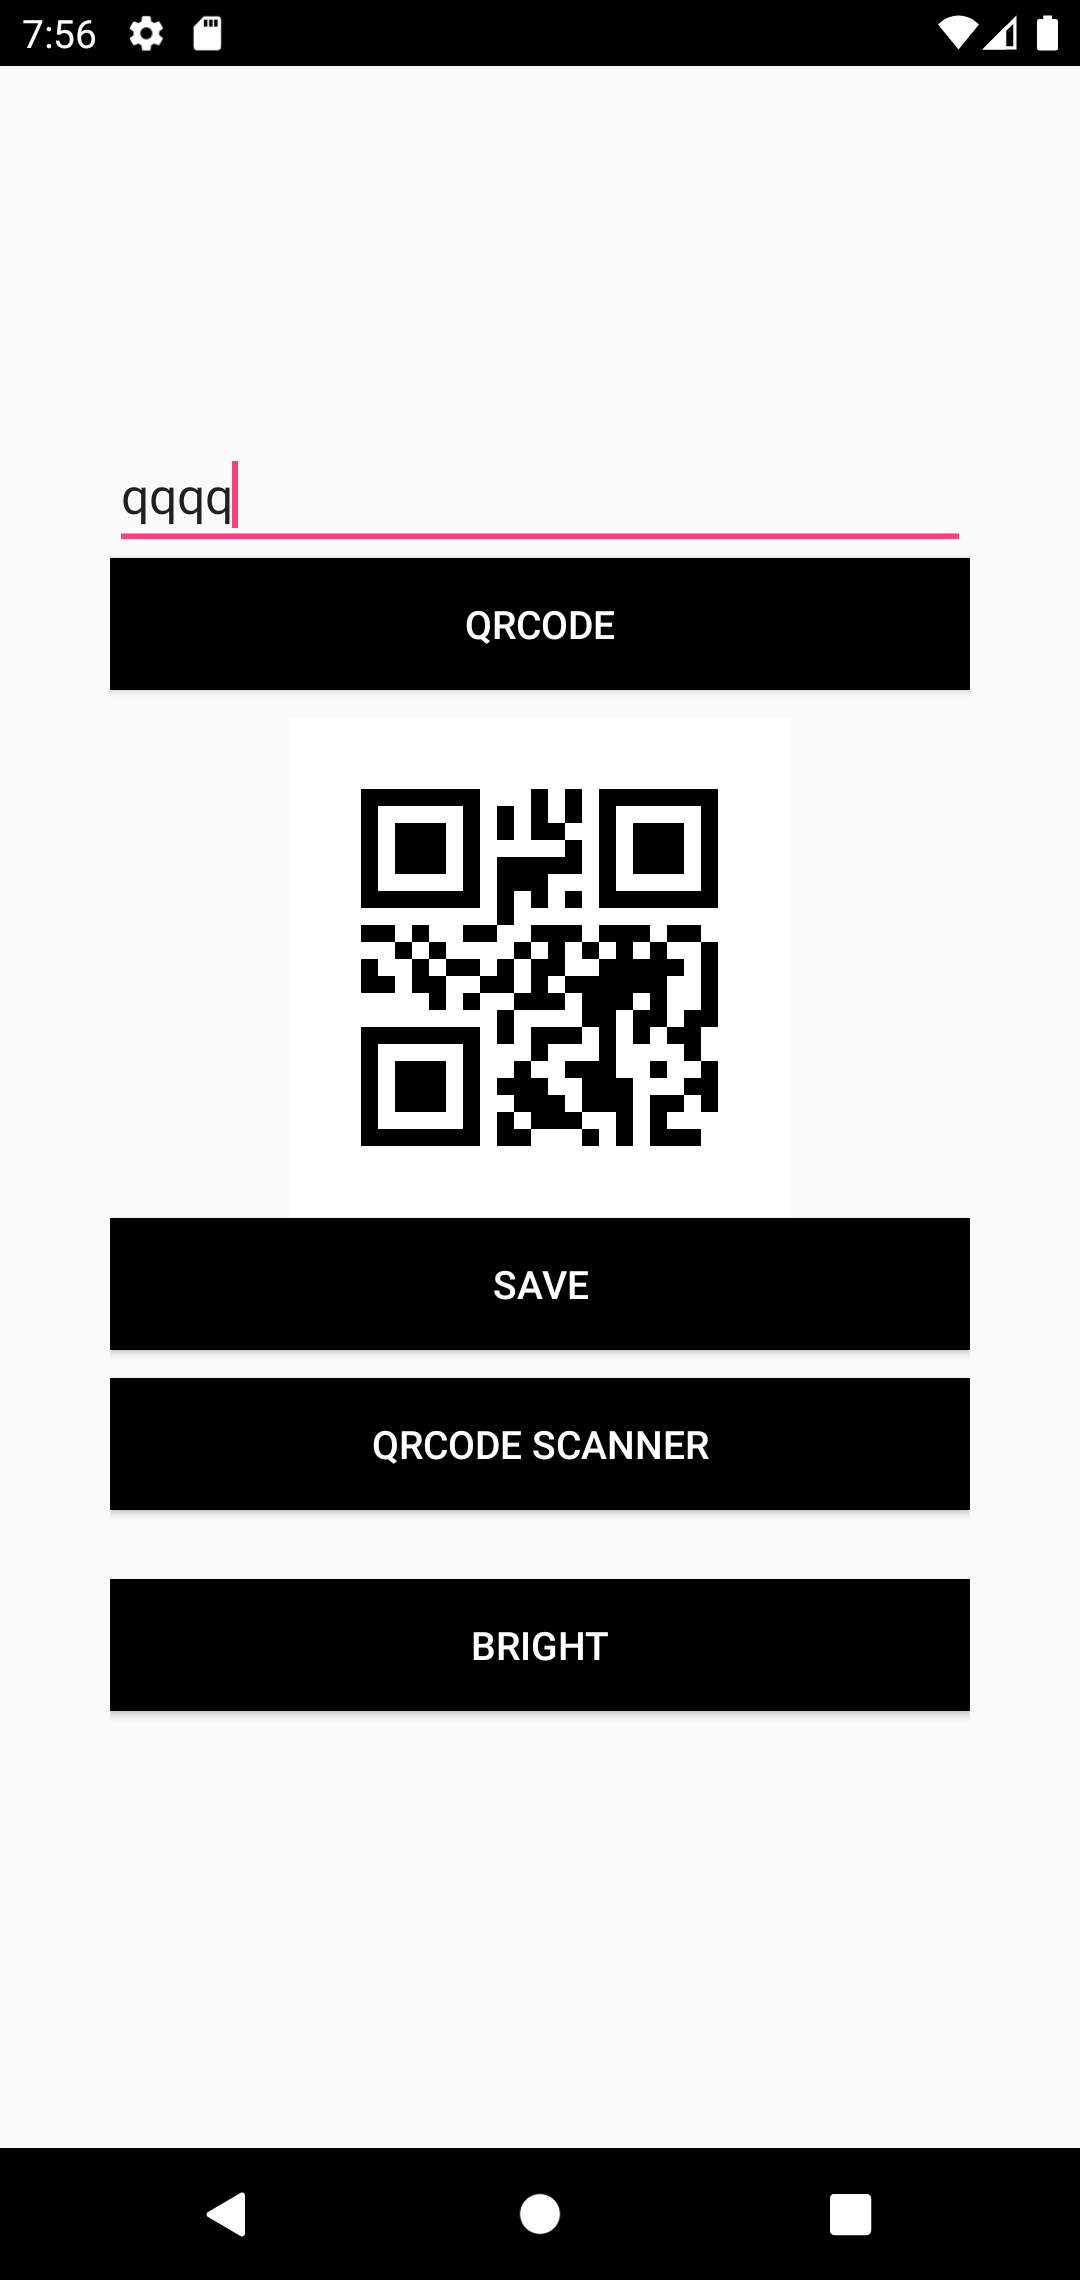
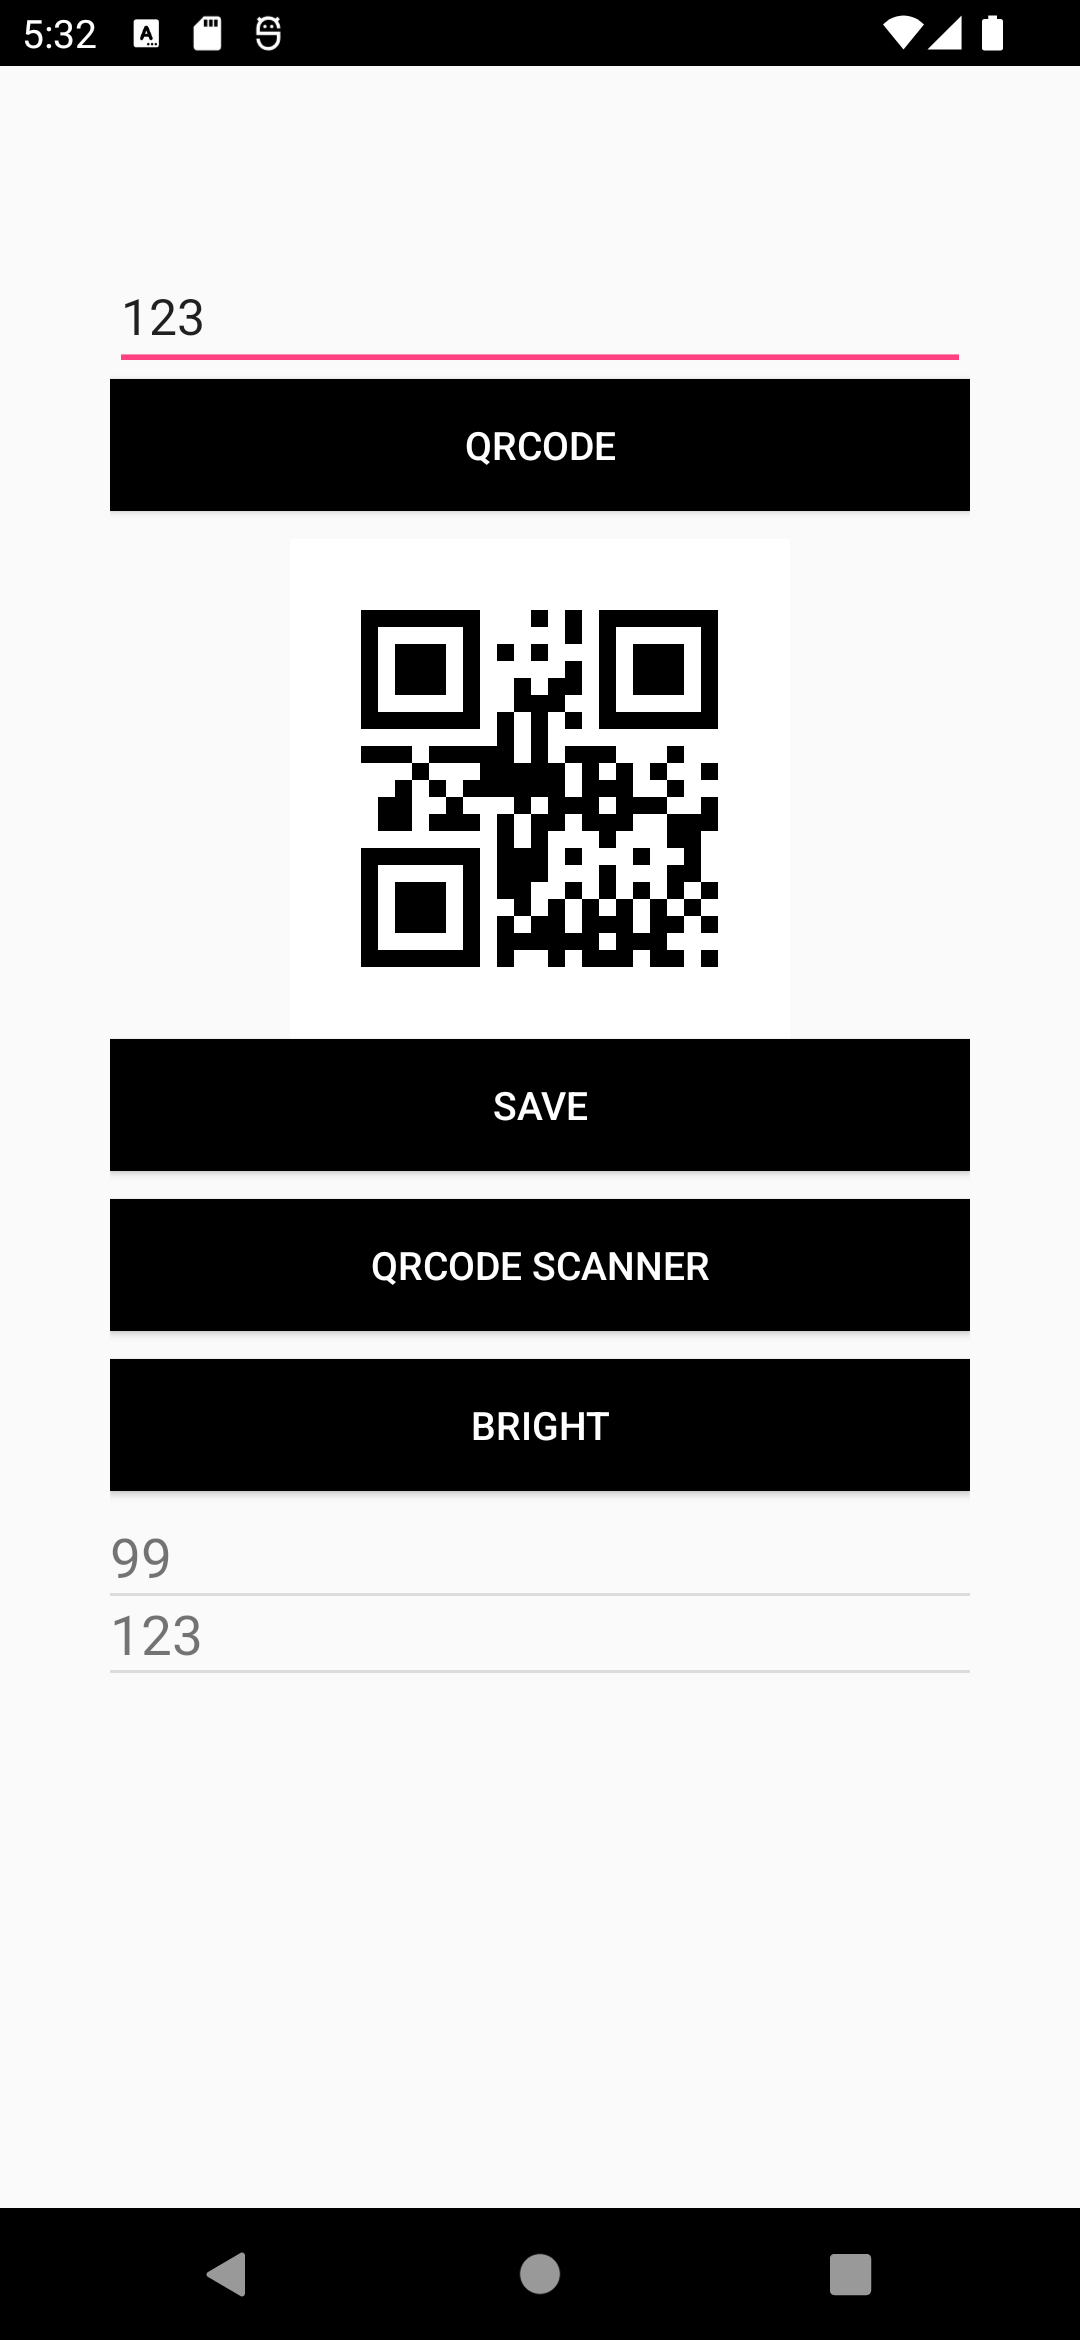
add history list

diff --git a/app/src/main/java/com/example/user/QRCodeTool/MainActivity.java b/app/src/main/java/com/example/user/QRCodeTool/MainActivity.java
@@ -2,33 +2,39 @@ package com.example.user.QRCodeTool;
 
 import android.Manifest;
 import android.app.Activity;
-import android.content.ContentResolver;
 import android.content.Intent;
 import android.content.pm.PackageManager;
 import android.graphics.Bitmap;
 import android.net.Uri;
 import android.os.Bundle;
 import android.os.Environment;
-import android.provider.Settings;
-import android.support.v4.app.ActivityCompat;
-import android.support.v4.content.ContextCompat;
-import android.support.v7.widget.AppCompatButton;
 import android.util.Log;
 import android.view.View;
-import android.view.Window;
 import android.view.WindowManager;
 import android.view.inputmethod.InputMethodManager;
 import android.widget.EditText;
 import android.widget.ImageView;
+import android.widget.TextView;
 
+import androidx.annotation.NonNull;
+import androidx.annotation.Nullable;
+import androidx.appcompat.widget.AppCompatButton;
+import androidx.core.app.ActivityCompat;
+import androidx.core.content.ContextCompat;
+import androidx.recyclerview.widget.DividerItemDecoration;
+import androidx.recyclerview.widget.ItemTouchHelper;
+import androidx.recyclerview.widget.LinearLayoutManager;
+import androidx.recyclerview.widget.RecyclerView;
+
+import com.example.user.QRCodeTool.View.MyAdapter;
 import com.google.zxing.BarcodeFormat;
 import com.google.zxing.WriterException;
 import com.journeyapps.barcodescanner.BarcodeEncoder;
 
 import java.io.File;
 import java.io.FileOutputStream;
+import java.util.ArrayList;
 import java.util.Date;
-import java.util.Random;
 
 public class MainActivity extends Activity {
 
@@ -47,7 +53,6 @@ public class MainActivity extends Activity {
 
         VariableEditor.ScanText = "";
         brightness= getWindow().getAttributes().screenBrightness;
-
         etContent = (EditText)findViewById(R.id.editTextQRCode);
 
         AppCompatButton btn_QRCode = (AppCompatButton)findViewById(R.id.btn_QRCode);
@@ -56,7 +61,6 @@ public class MainActivity extends Activity {
             public void onClick(View view) {
                 hideSoftKeyboard();
                 genCode();
-                btn_save.setVisibility(View.VISIBLE);
             }
         });
 
@@ -93,20 +97,52 @@ public class MainActivity extends Activity {
         });
         btn_save.setVisibility(View.GONE);
 
-//        //to get the image from the ImageView (say iv)
-//        BitmapDrawable draw = (BitmapDrawable) iv.getDrawable();
-//        Bitmap bitmap = draw.getBitmap();
-//
-//        FileOutputStream outStream = null;
-//        File sdCard = Environment.getExternalStorageDirectory();
-//        File dir = new File(sdCard.getAbsolutePath() + "/YourFolderName");
-//        dir.mkdirs();
-//        String fileName = String.format("%d.jpg", System.currentTimeMillis());
-//        File outFile = new File(dir, fileName);
-//        outStream = new FileOutputStream(outFile);
-//        bitmap.compress(Bitmap.CompressFormat.JPEG, 100, outStream);
-//        outStream.flush();
-//        outStream.close();
+
+        SetRecyclerView();
+    }
+
+    private ArrayList<String> CodeArray = new ArrayList<String>();
+    private MyAdapter adapter;
+    private void SetRecyclerView() {
+        RecyclerView recyclerView = findViewById(R.id.mRecyclerView);
+        recyclerView.setHasFixedSize(true);
+
+        RecyclerView.LayoutManager rLayoutManager = new LinearLayoutManager(this);
+        recyclerView.setLayoutManager(rLayoutManager);
+
+        adapter= new MyAdapter(CodeArray);
+        recyclerView.setAdapter(adapter);
+
+        RecyclerView.ItemDecoration itemDecoration = new DividerItemDecoration(this, DividerItemDecoration.VERTICAL);
+        recyclerView.addItemDecoration(itemDecoration);
+
+        ItemTouchHelper itemTouchHelper = new ItemTouchHelper(new ItemTouchHelper.SimpleCallback(ItemTouchHelper.UP | ItemTouchHelper.DOWN, ItemTouchHelper.ACTION_STATE_IDLE) {
+            @Override
+            public boolean onMove(@NonNull RecyclerView recyclerView, @NonNull RecyclerView.ViewHolder viewHolder, @NonNull RecyclerView.ViewHolder target) {
+                final int fromPos = viewHolder.getAbsoluteAdapterPosition();
+                final int toPos = target.getAbsoluteAdapterPosition();
+                //adapter.notifyItemMoved(fromPos, toPos);
+                return true;
+            }
+
+            @Override
+            public void onSwiped(@NonNull RecyclerView.ViewHolder viewHolder, int direction) {
+
+            }
+
+            @Override
+            public void onSelectedChanged(@Nullable RecyclerView.ViewHolder viewHolder, int actionState) {
+                super.onSelectedChanged(viewHolder, actionState);
+
+              if(viewHolder != null){
+                  TextView textView= viewHolder.itemView.findViewById(R.id.mtext);
+                  Log.d("debug", "Value : " + textView.getText().toString());
+                  etContent.setText(textView.getText().toString());
+                  genCode();
+              }
+            }
+        });
+        itemTouchHelper.attachToRecyclerView(recyclerView);
     }
 
     private void SaveImage(Bitmap finalBitmap) {
@@ -120,15 +156,13 @@ public class MainActivity extends Activity {
         }
 
         String root = Environment.getExternalStorageDirectory().toString();
-        File myDir = new File(root + "/saved_QRCode_images");
+        File FileDir = new File(root + "/Pictures/QRCode");
+        FileDir.mkdirs();
 
-        myDir.mkdirs();
-        Random generator = new Random();
-        int n = 10000;
-        n = generator.nextInt(n);
-        String fname = "Image-"+   QRCode_Str +".jpg";
-        //String fname = "Image-"+   filterDate( etContent.getText().toString()) +".jpg";
-        File file = new File (myDir, fname);
+        Date now = new Date();
+        CharSequence mNow = android.text.format.DateFormat.format("yyyy-MM-dd", now);
+        String filename = QRCode_Str + "_" + mNow.toString() +".jpg";
+        File file = new File (FileDir, filename);
         if (file.exists ()) file.delete ();
         try {
             FileOutputStream out = new FileOutputStream(file);
@@ -143,26 +177,48 @@ public class MainActivity extends Activity {
         btn_save.setVisibility(View.GONE);
     }
 
-//    public String filterDate(String str){
-//        String filter = "[^0-9/-／]"; // 指定要過濾的字元
-//        Pattern p = Pattern.compile(filter);
-//        Matcher m = p.matcher(str);
-//
-//        Toast.makeText(this, str2, Toast.LENGTH_SHORT).show();
-//        return m.replaceAll("").trim(); // 將非上列所設定的字元全部replace 掉
-//    }
-
     public void genCode() {
         ImageView ivCode = (ImageView) findViewById(R.id.imageView);
 
         BarcodeEncoder encoder = new BarcodeEncoder();
         try {
             QRCode_Str = etContent.getText().toString();
-            bit = encoder.encodeBitmap(etContent.getText().toString(), BarcodeFormat.QR_CODE,
-                    500, 500);
+            bit = encoder.encodeBitmap(etContent.getText().toString(), BarcodeFormat.QR_CODE, 500, 500);
             ivCode.setImageBitmap(bit);
+
+            btn_save.setVisibility(View.VISIBLE);
         } catch (WriterException e) {
             e.printStackTrace();
+        }
+
+        if(!CodeArray.contains(QRCode_Str)){
+            CodeArray.add(QRCode_Str);
+            if(CodeArray.size() > 5){
+                CodeArray.remove(0);
+            }
+            // notify adapter
+            adapter.notifyDataSetChanged();
+        }
+    }
+
+
+    /***  Hides the soft keyboard */
+    public void hideSoftKeyboard() {
+        if(getCurrentFocus()!=null) {
+            InputMethodManager inputMethodManager = (InputMethodManager) getSystemService(INPUT_METHOD_SERVICE);
+            inputMethodManager.hideSoftInputFromWindow(getCurrentFocus().getWindowToken(), 0);
+        }
+    }
+
+    @Override
+    protected void onResume() {
+        super.onResume();
+        Log.d("debug","onResume()");
+        //Toast.makeText(MainActivity.this ,   "onResume()" , Toast.LENGTH_SHORT).show(); // Crash Test
+        if(!VariableEditor.ScanText.equals("")){
+            etContent.setText(VariableEditor.ScanText);
+            genCode();
+            VariableEditor.ScanText="";
         }
     }
 
@@ -201,26 +257,5 @@ public class MainActivity extends Activity {
         Uri uri = Uri.fromFile(imageFile);
         intent.setDataAndType(uri, "image/*");
         startActivity(intent);
-    }
-
-    /***  Hides the soft keyboard */
-    public void hideSoftKeyboard() {
-        if(getCurrentFocus()!=null) {
-            InputMethodManager inputMethodManager = (InputMethodManager) getSystemService(INPUT_METHOD_SERVICE);
-            inputMethodManager.hideSoftInputFromWindow(getCurrentFocus().getWindowToken(), 0);
-        }
-    }
-
-    @Override
-    protected void onResume() {
-        super.onResume();
-        Log.d("debug","onResume()");
-        //Toast.makeText(MainActivity.this ,   "onResume()" , Toast.LENGTH_SHORT).show(); // Crash Test
-        if(!VariableEditor.ScanText.equals("")){
-            etContent.setText(VariableEditor.ScanText);
-            genCode();
-            btn_save.setVisibility(View.VISIBLE);;
-            VariableEditor.ScanText="";
-        }
     }
 }

diff --git a/app/src/main/java/com/example/user/QRCodeTool/View/MyAdapter.java b/app/src/main/java/com/example/user/QRCodeTool/View/MyAdapter.java
@@ -1,0 +1,69 @@
+package com.example.user.QRCodeTool.View;
+
+import androidx.recyclerview.widget.RecyclerView;
+import androidx.annotation.NonNull;
+import android.view.LayoutInflater;
+import android.view.View;
+import android.view.ViewGroup;
+import android.widget.TextView;
+
+import com.example.user.QRCodeTool.R;
+
+import java.util.ArrayList;
+
+public class MyAdapter extends RecyclerView.Adapter<MyAdapter.ViewHolder> {
+
+    private final ArrayList<String> localDataSet;
+
+    /**
+     * Provide a reference to the type of views that you are using
+     * (custom ViewHolder).
+     */
+    static class ViewHolder extends RecyclerView.ViewHolder {
+        private final TextView textView;
+
+        public ViewHolder(View view) {
+            super(view);
+            textView = view.findViewById(R.id.mtext);
+        }
+
+        public TextView getTextView(){
+            return textView;
+        }
+    }
+
+    /**
+     * Initialize the dataset of the Adapter.
+     *
+     * @param dataSet String[] containing the data to populate views to be used
+     * by RecyclerView.
+     */
+    public MyAdapter(ArrayList<String> dataSet) {
+        localDataSet = dataSet;
+    }
+
+    // Create new views (invoked by the layout manager)
+    @NonNull
+    @Override
+    public ViewHolder onCreateViewHolder(ViewGroup viewGroup, int viewType) {
+        // Create a new view, which defines the UI of the list item
+        View view = LayoutInflater.from(viewGroup.getContext()).inflate(R.layout.my_recycler_view, viewGroup, false);
+
+        return new ViewHolder(view);
+    }
+
+    // Replace the contents of a view (invoked by the layout manager)
+    @Override
+    public void onBindViewHolder(ViewHolder viewHolder, final int position) {
+
+        // Get element from your dataset at this position and replace the
+        // contents of the view with that element
+        viewHolder.getTextView().setText(localDataSet.get(position));
+    }
+
+    // Return the size of your dataset (invoked by the layout manager)
+    @Override
+    public int getItemCount() {
+        return localDataSet.size();
+    }
+}

diff --git a/app/src/main/java/com/example/user/QRCodeTool/ScannerActivity.java b/app/src/main/java/com/example/user/QRCodeTool/ScannerActivity.java
@@ -9,11 +9,12 @@ import android.graphics.Canvas;
 import android.graphics.Color;
 import android.os.Bundle;
 import android.os.Handler;
-import android.support.v4.app.ActivityCompat;
-import android.support.v4.content.ContextCompat;
-import android.support.v7.app.AlertDialog;
 import android.view.View;
 import android.view.ViewGroup;
+
+import androidx.appcompat.app.AlertDialog;
+import androidx.core.app.ActivityCompat;
+import androidx.core.content.ContextCompat;
 
 import com.google.zxing.Result;
 
@@ -62,15 +63,6 @@ public class ScannerActivity extends Activity implements ZXingScannerView.Result
                     mScannerView.resumeCameraPreview(ScannerActivity.this);
                 }
             }, 10);
-            //mScannerView.getRootView();
-
-//            Dialog settingsDialog = new Dialog(this);
-//            settingsDialog.getWindow().requestFeature(Window.FEATURE_NO_TITLE);
-//            settingsDialog.setContentView(getLayoutInflater().inflate(R.layout.image_layout, null));
-//
-//            ImageView im = (ImageView) findViewById(R.id.image);
-//            im.setImageBitmap( loadBitmapFromView(mScannerView.getRootView())  );
-//            settingsDialog.show();
 
             AlertDialog.Builder builder = new AlertDialog.Builder(this);
             builder.setTitle("Info");
@@ -98,7 +90,6 @@ public class ScannerActivity extends Activity implements ZXingScannerView.Result
         Bitmap bmp = Bitmap.createBitmap(w, h, Bitmap.Config.ARGB_8888);
         Canvas c = new Canvas(bmp);
         c.drawColor(Color.WHITE);
-        /** 如果不设置canvas画布为白色，则生成透明 */
         v.layout(0, 0, w, h);
         v.draw(c);
         return bmp;
